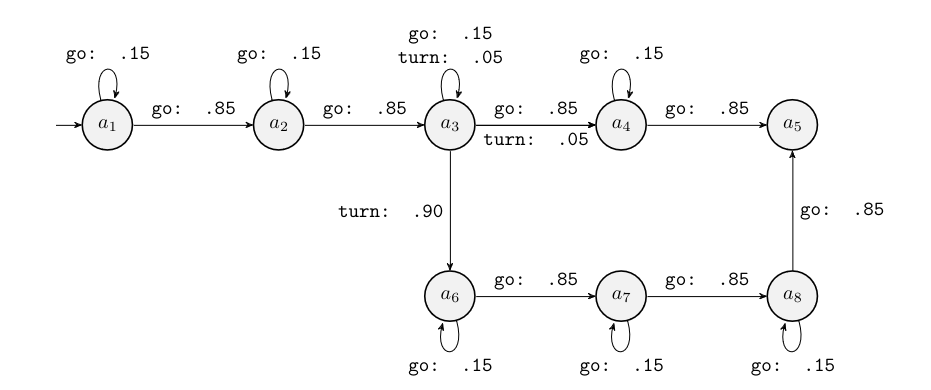
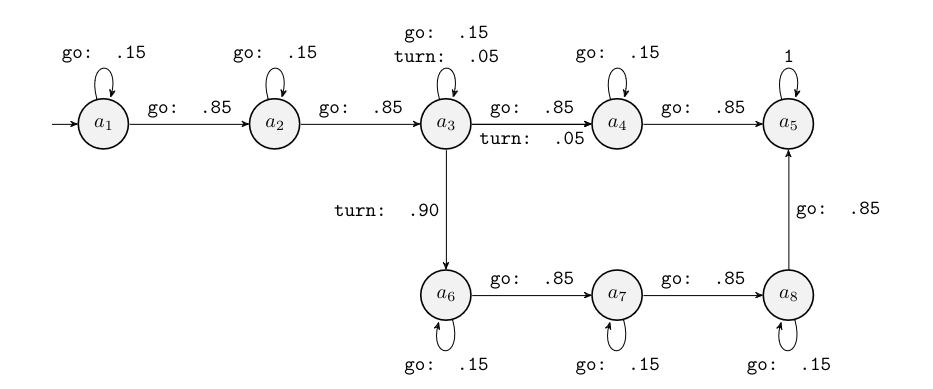
updating doc for model_c

diff --git a/proj/README.md b/proj/README.md
@@ -1,0 +1,53 @@
+# Various Systems Modeled in PRISM
+
+Here **PRISM** refers to both a *modeling language* and a *model checker*. This project uses the PRISM modeling language to represent various different systems to be analyzed with the PRISM model checker.
+
+## Systems
+1. **model_c** - simple obstacle avoidance
+1. ***654*** - probabilistic analysis of the dice game *654*
+
+Each of these systems involves the interaction between a single **non-deterministic Agent**, represented by a **Markov Decision Process**, with its **deterministic environment**, represented by **Discrete-Time Markov Chains**.
+
+## Discrete-Time Markov Chains
+A **Discrete-Time Markov Chain** (DTMC) is a stochastic process which models the behavior of some deterministic process. For a DTMC, a transition from one state to another is controlled entirely by the transition probabilites of the system. Behavior can be predicted and analyzed without any modification.
+
+Here, DTMCs are represented as finite state machines where every transition is assigned a probability value between 0 and 1. Markov Chain $M_c$ is formally defined as 
+
+$M_c: (S, P, s_0, \Sigma, L)$, with 
+- Probability transition function, $P: S \times S \rightarrow [0, 1]$
+- Initial state, $s_0$
+- Set of atomic propositions, $\Sigma$
+- Labeling function, $L$
+
+## Markov Decision Processes
+A **Markov Decision Process** (MDP) is a stochastic process modeling the behavior of a *non-deterministic agent*. An *agent* is different from a deterministic process because it is must take a *non-deterministic action* for every state transition. This non-deterministic action may affect the probability transition function, therefore behavior cannot be reasoned about in isolation.
+
+For this project, MDPs are represented as finite state machines with each transition assigned an action as well as a probability value between 0 and 1. Markov Decision Process $M_p$ is formally defined as 
+
+$M_p: (S, s_0, A, \sigma, \Sigma, L)$, where
+- Set of states, $S$
+- Initial state, $s_0 \in S$
+- Finite set of actions, $A$
+- Probability transition function, $\sigma: S \times A \times S \rightarrow [0, 1]:$
+- Set of atomic propositions, $\Sigma$
+- Labeling function, $L$
+
+## Policy
+In order to reason about the behavior of a non-deterministic agent modeled by an MDP, we apply a *policy* to resolve the non-determinism. A policy is essentialy a list of rules which the agent must follow, specifying an action the agent must take under certain conditions. Application of a policy to an MDP reduces it to a deterministic system, which we can reason about more effectively.
+
+The problem of finding an optimal policy for a non-deterministic system is very interesting and is explored in more detail in this project.
+
+## Parallel Composition
+Given two independent systems which may interact, $N$ and $M$, the joint behavior of the entire system can be modeled with a **parallel composition* of the systems. The parallel composition takes the cross product of each of the base systems to create a larger system capturing all of the behavior. This can be used to reason about the interaction between to separate systems, as is done in this project.
+
+Given an non-deterministic agent, $N$, and a deterministic process, $D$, the system resulting from a parallel composition will capture the joint behavior of the whole system. This resulting system, $R$, will be non-deterministic and model the interaction between the agent and its environment.
+
+Parallel composition as decribed above can be executed automatically by the PRISM model checker, though it may be done by hand.
+
+
+
+## Specifications
+
+PLTL specifications can written in the PRISM modeling language to conduct analysis on systems.
+
+For an LTL specification, $\phi$, the PRISM expression **Pmax?=$\phi$** can be analyzed by the PRISM model checker to compute a *policy* which resolves the determinism of the parallely-composed MDP in order to maximize probability of satisfying $\phi$.

diff --git a/proj/model_c/README.md b/proj/model_c/README.md
@@ -1,19 +1,52 @@
 # Simple obstacle avoidance problem
 
-An aircraft is travelling along a planned trajectory at a constant rate. The planned trajectory, $T$, follows locations $[a1,a2,a3,a4,a5]$ without making any maneuvers, which is the optimal path from initial location, $a1$, to destination, $a5$.
+An aircraft is travelling along a planned trajectory at a constant rate. The planned trajectory, $T$, follows locations $[a_1,a_2,a_3,a_4,a_5]$ without making any maneuvers, which is the optimal path from initial location, $a_1$, to destination, $a_5$.
 
-There is a certain probability that a storm will occur along the planned trajectory (in location $a3$), making the planned trajectory dangerous for air travel. In this case, the aircraft should maneuver to follow a safe trajectory, $T'$. This alternate trajectory traverses locations $[a1,a2,a3,a6,a7,a8,a5]$.
+There is a certain probability that a storm will occur along the planned trajectory (in location $a_3$), making the planned trajectory dangerous for air travel. In this case, the aircraft should maneuver to follow a safe trajectory, $T'$. This alternate trajectory traverses locations $[a_1,a_2,a_3,a_6,a_7,a_8,a_5]$.
 
 In order to minimize cost, trajectory $T$ should always be preferred unless there is a storm.
 
 ## A visualization of the environment:
 ![image](model_c.png "A visualization of the environment")
 
-## The behavior of the airspace in $a4$ is defined by a DTMC as follows:
+## The behavior of the airspace in $a_4$ is defined by a DTMC as follows:
 ![image](storm_dtmc.png "DTMC representing behavior of storm")
 
-The skies initially are clear.
+The skies initially are clear. A storm may appear at any time. The sky will tend to maintain its state with high probability.
 
 ## The behavior of the aircraft is defined by a MDP as follows:
 ![image](aircraft_mdp.png "MDP representing behavior of aircraft")
 
+
+This aircraft has 2 actions at its disposal: *go*, and *turn*.
+
+*go* is a simple action which allows the aircraft to continue on its current trajectory. *go* is enabled in every state (except the destination, where all actions are disabled).
+
+*turn* is an action that allows the aircraft to change its trajectory. *turn* is only enabled in $a_3$ to allow the aircraft to maneuver around the storm.
+
+It is assumed that a turn results in a sub-optimal trajectory (from a cost perspective) due to increased distance traveled by the aircraft. Therefore the aircraft should tend not to turn unless there is an obstacle blocking its path.
+
+## Specifications
+
+LTL specifications can be checked for this model using **PRISM model checker**.
+
+For an LTL specification, $\phi$, the expression **Pmax?=$\phi$** is a PRISM property which can be analyzed by the **PRISM model checker**. The result of this computation will be a *policy* which resolves the determinism of the parallely-composed MDP in order to maximize probability of satisfying $\phi$.
+
+Specifications are given in `model_c.specs`.
+
+**Example LTL specifications for this model:**
+> Aircraft always reaches its destination ($a_5$)
+
+$G [F(a_5)]$
+
+> Aircraft never enters storm
+
+$G [!(storm \land a_4)]$
+
+> Aircraft never turns except to avoid a storm
+
+$G [X(a_6) \implies storm]$
+
+These LTL specifications can be given to PRISM model checker along with the model to check these properties
+
+**Pmax?=**
